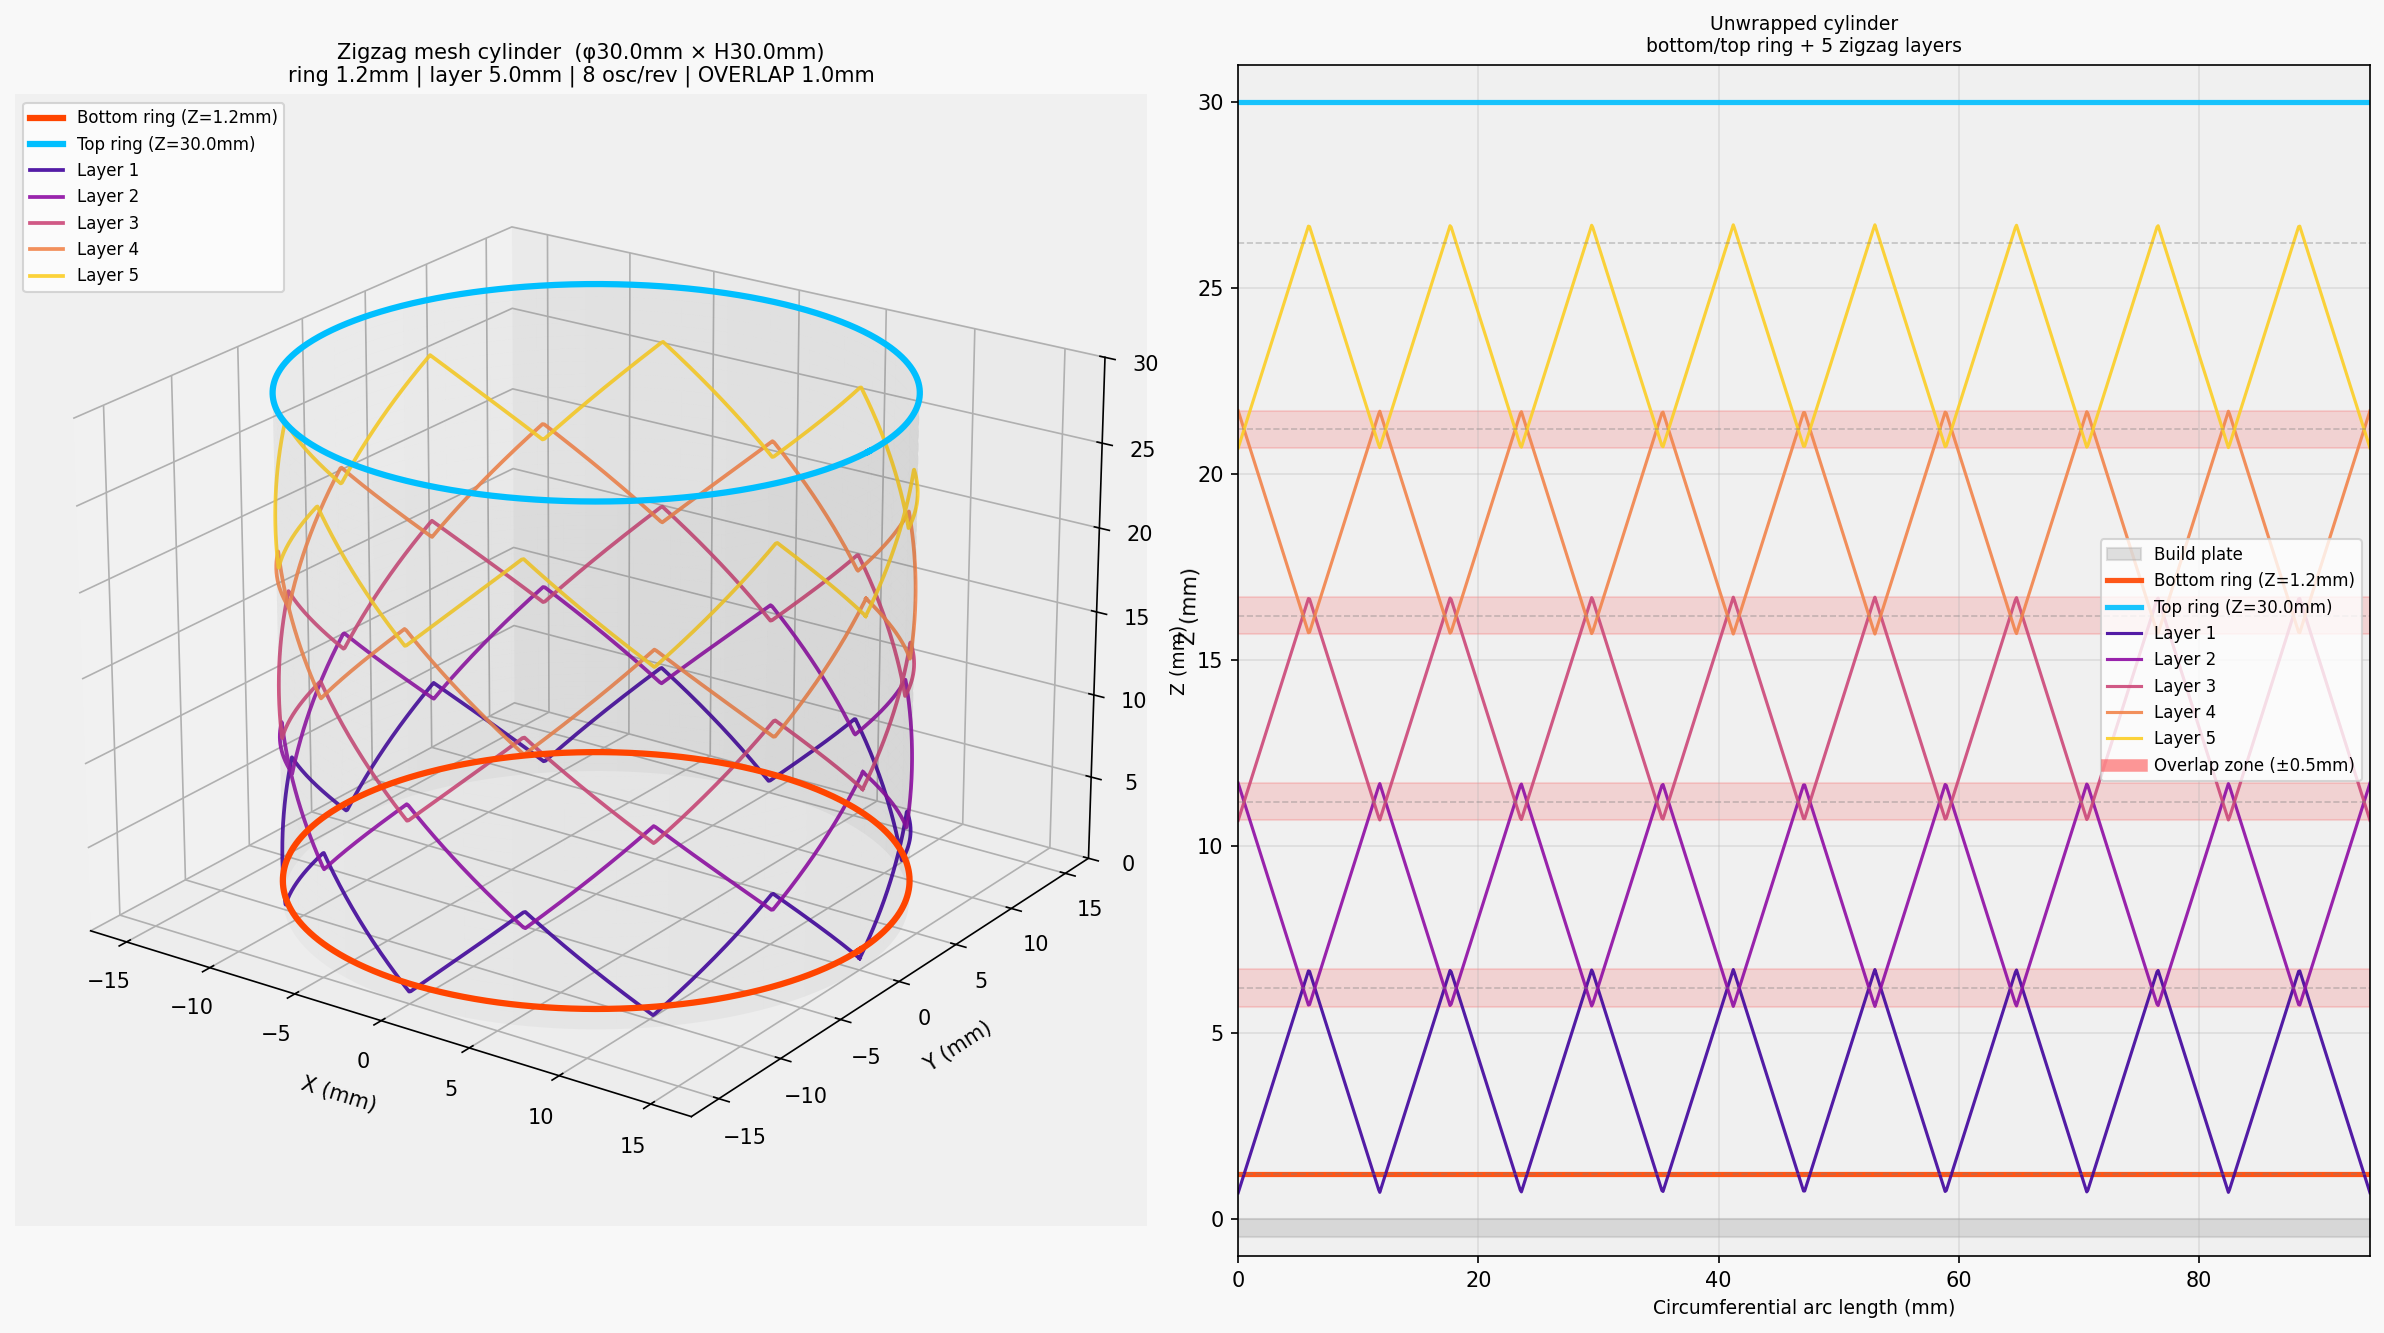
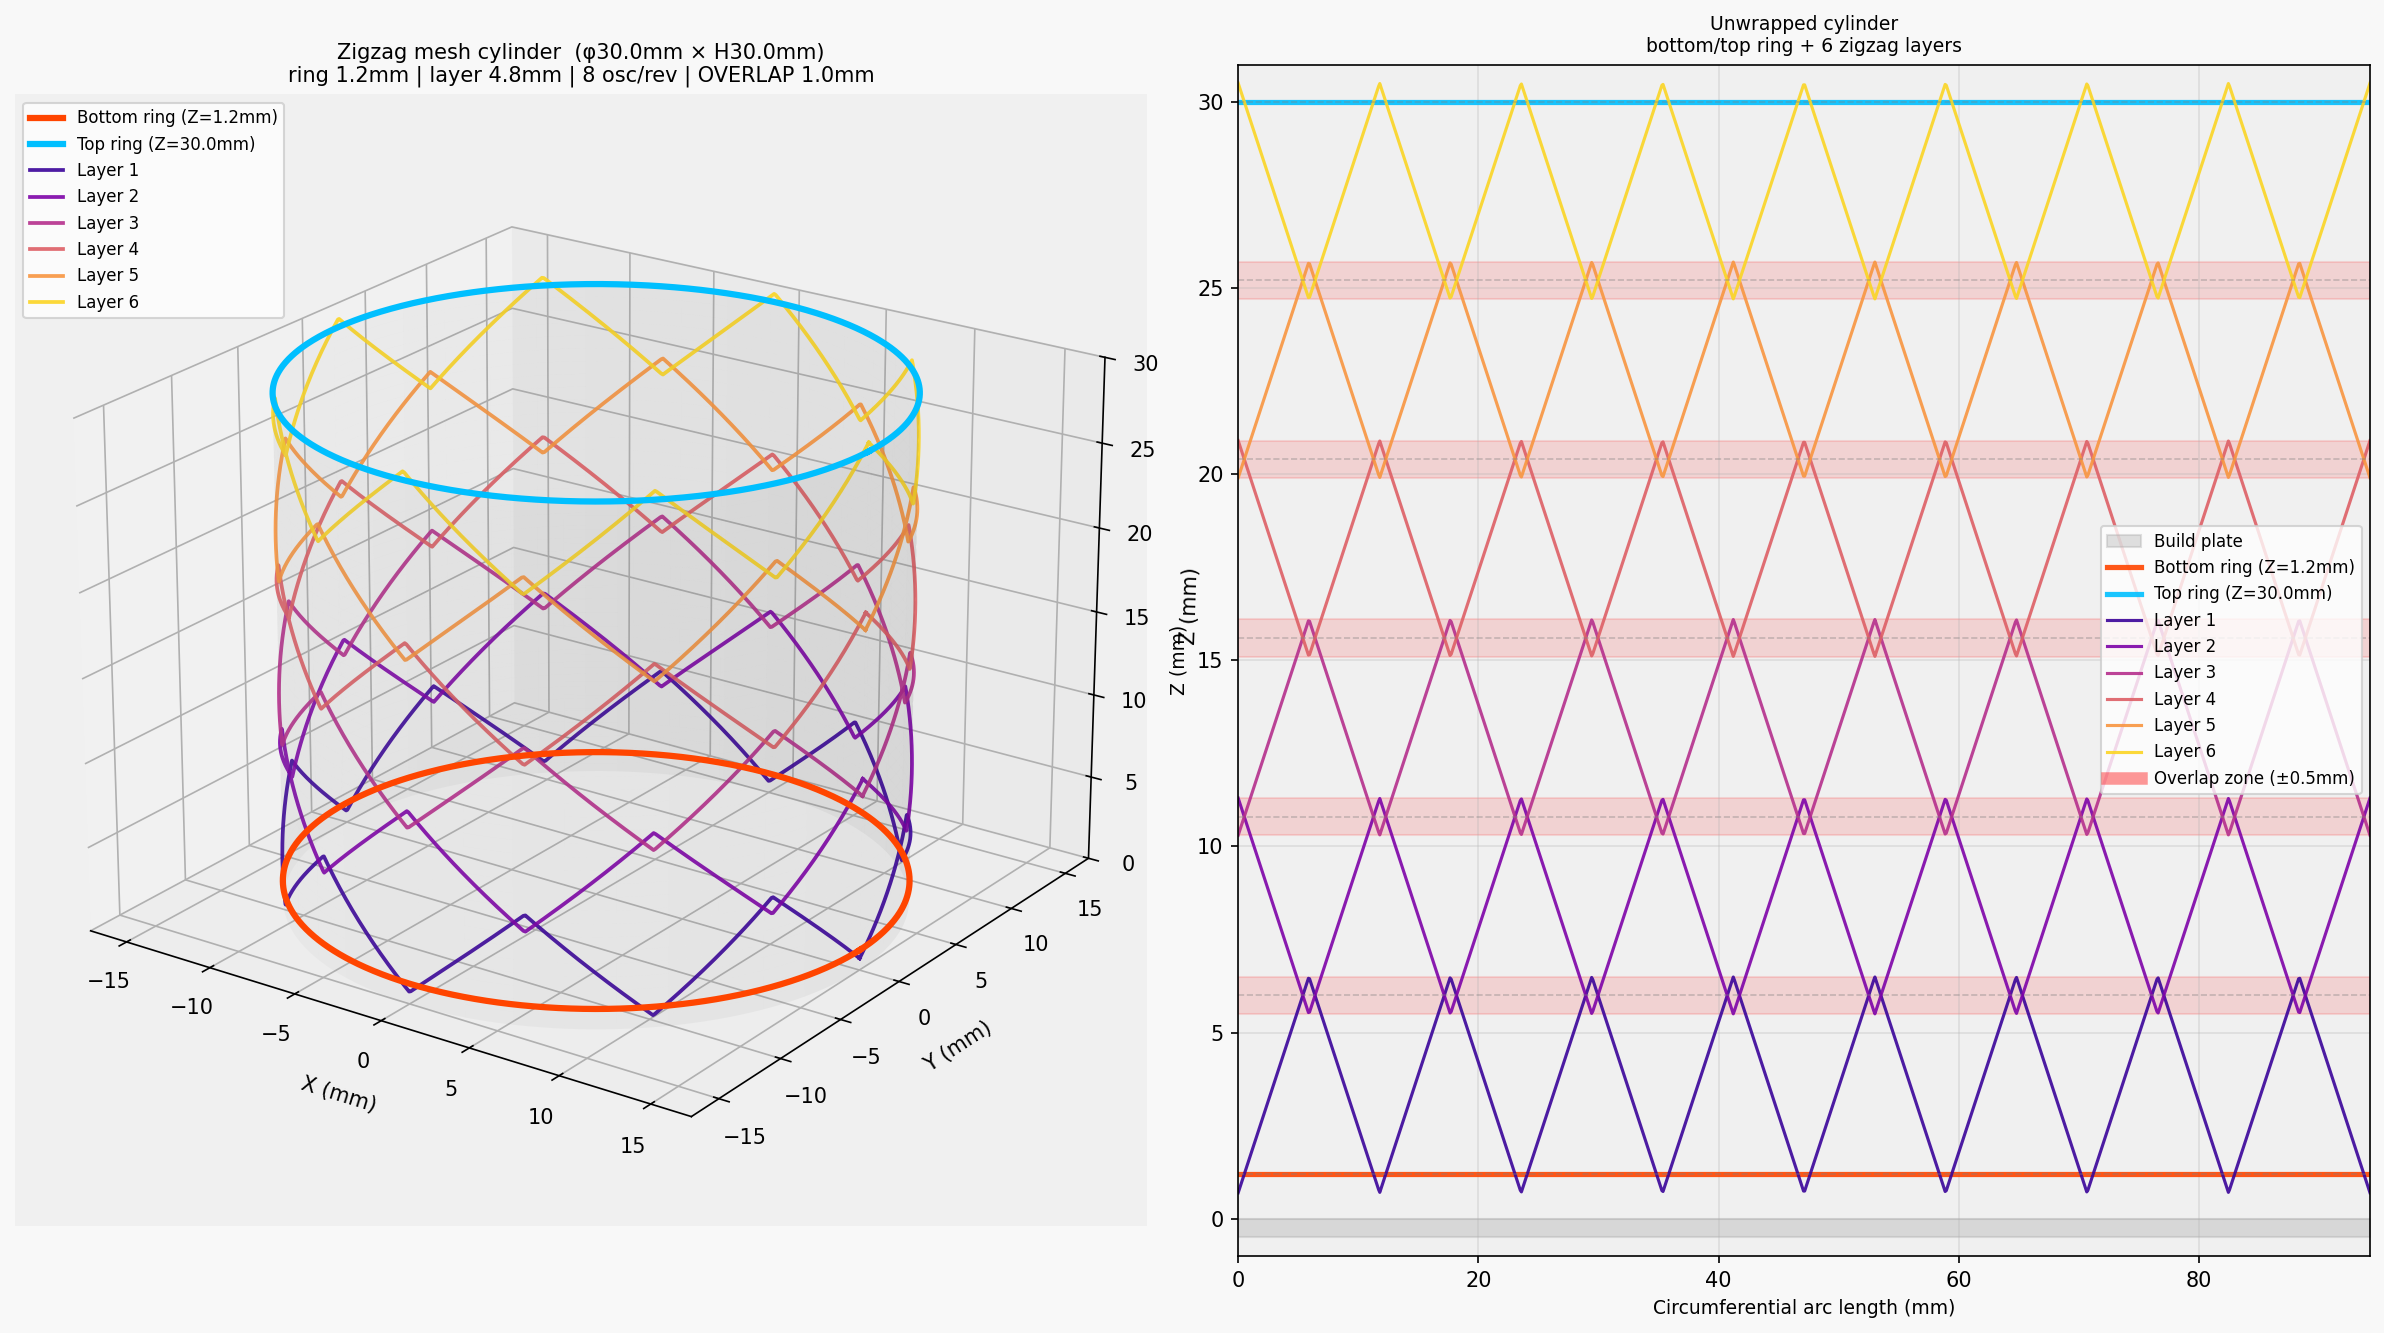
6 layers with uniform height: LAYER_HEIGHT=(30-1.2)/6=4.8mm
N_LAYERS fixed to 6, LAYER_HEIGHT auto-calculated to fill
evenly between RING_HEIGHT and TOTAL_HEIGHT.

https://claude.ai/code/session_019mxeRrqVgXTzK2RYrnWd97

diff --git a/visualize_zigzag.py b/visualize_zigzag.py
@@ -6,13 +6,13 @@ from mpl_toolkits.mplot3d import Axes3D
 CIRCLE_DIA    = 30.0
 TOTAL_HEIGHT  = 30.0
 RING_HEIGHT   = 1.2    # flat ring height (bottom & top)
-LAYER_HEIGHT  = 5.0
+N_LAYERS      = 6
+LAYER_HEIGHT  = (TOTAL_HEIGHT - RING_HEIGHT) / N_LAYERS  # 4.8mm (均等割り)
 N_OSC_PER_REV = 8      # integer OK (phase per layer set explicitly)
 OVERLAP       = 1.0    # mm  peaks embed into adjacent layer
-Z_AMP         = (LAYER_HEIGHT + OVERLAP) / 2  # 3.0 mm
+Z_AMP         = (LAYER_HEIGHT + OVERLAP) / 2  # 2.9 mm
 
-R        = CIRCLE_DIA / 2   # 15 mm
-N_LAYERS = int((TOTAL_HEIGHT - RING_HEIGHT) / LAYER_HEIGHT)  # 5
+R = CIRCLE_DIA / 2   # 15 mm
 PTS      = 1000
 
 def triangle_wave(x):
